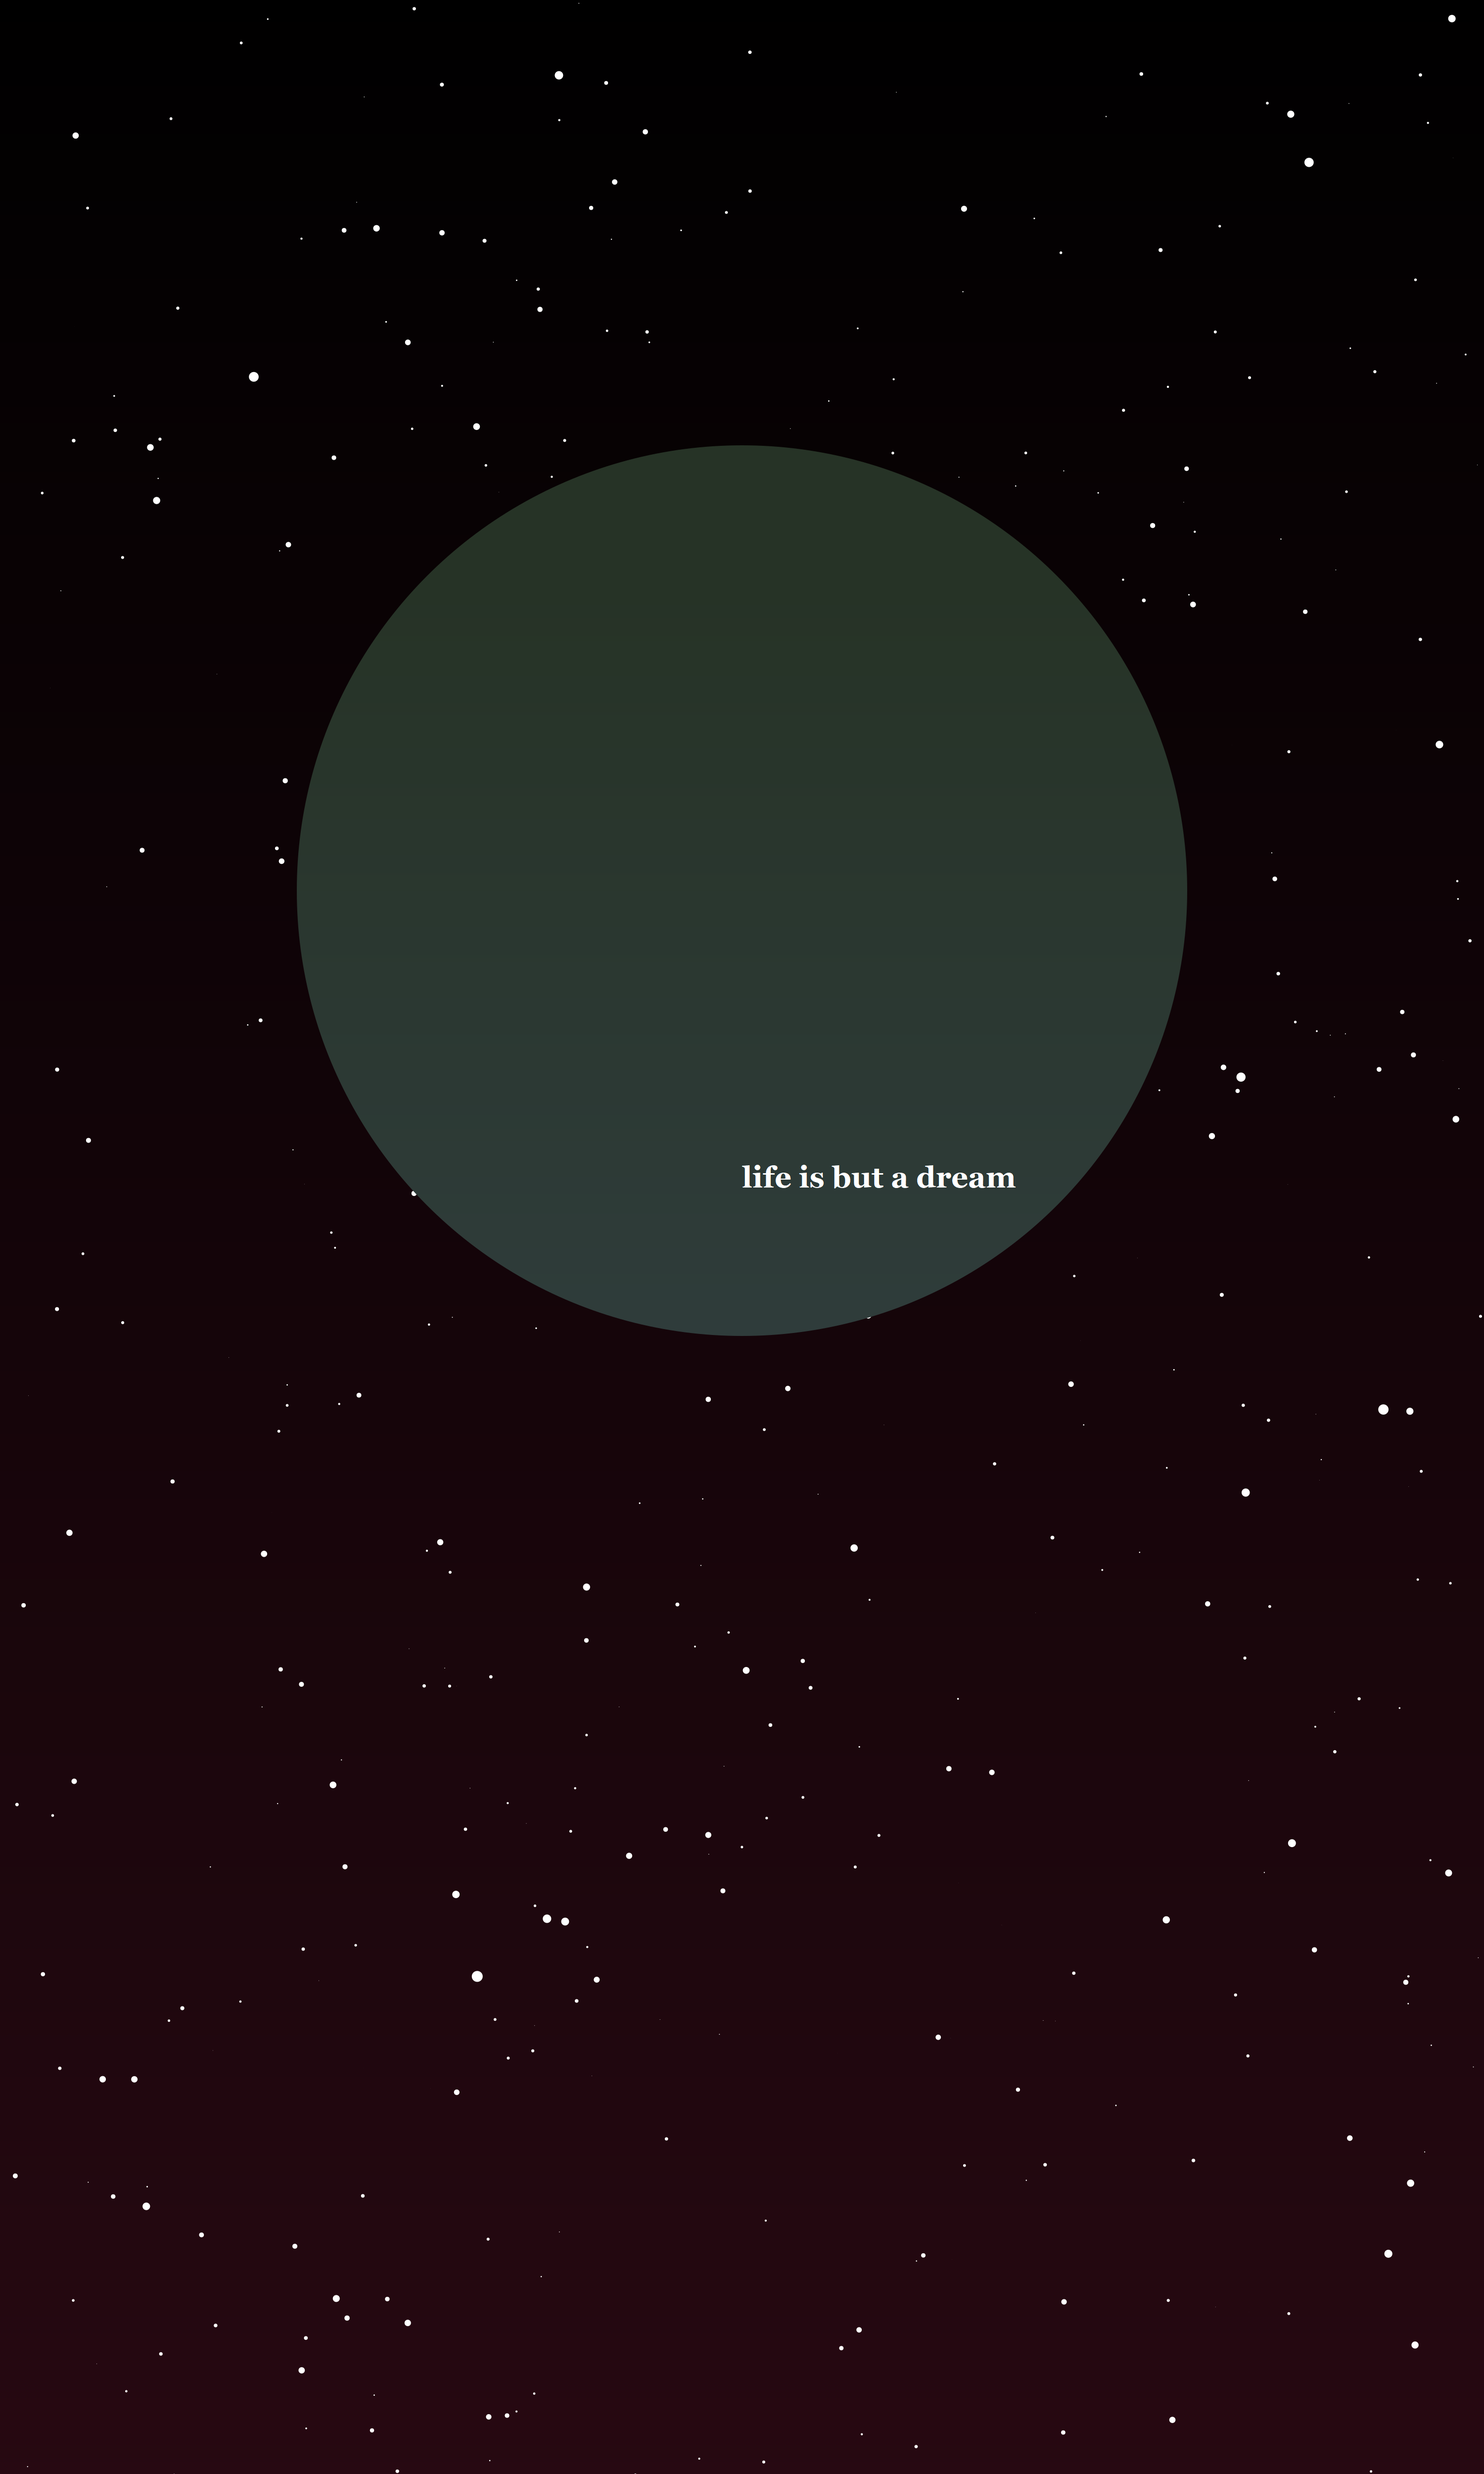
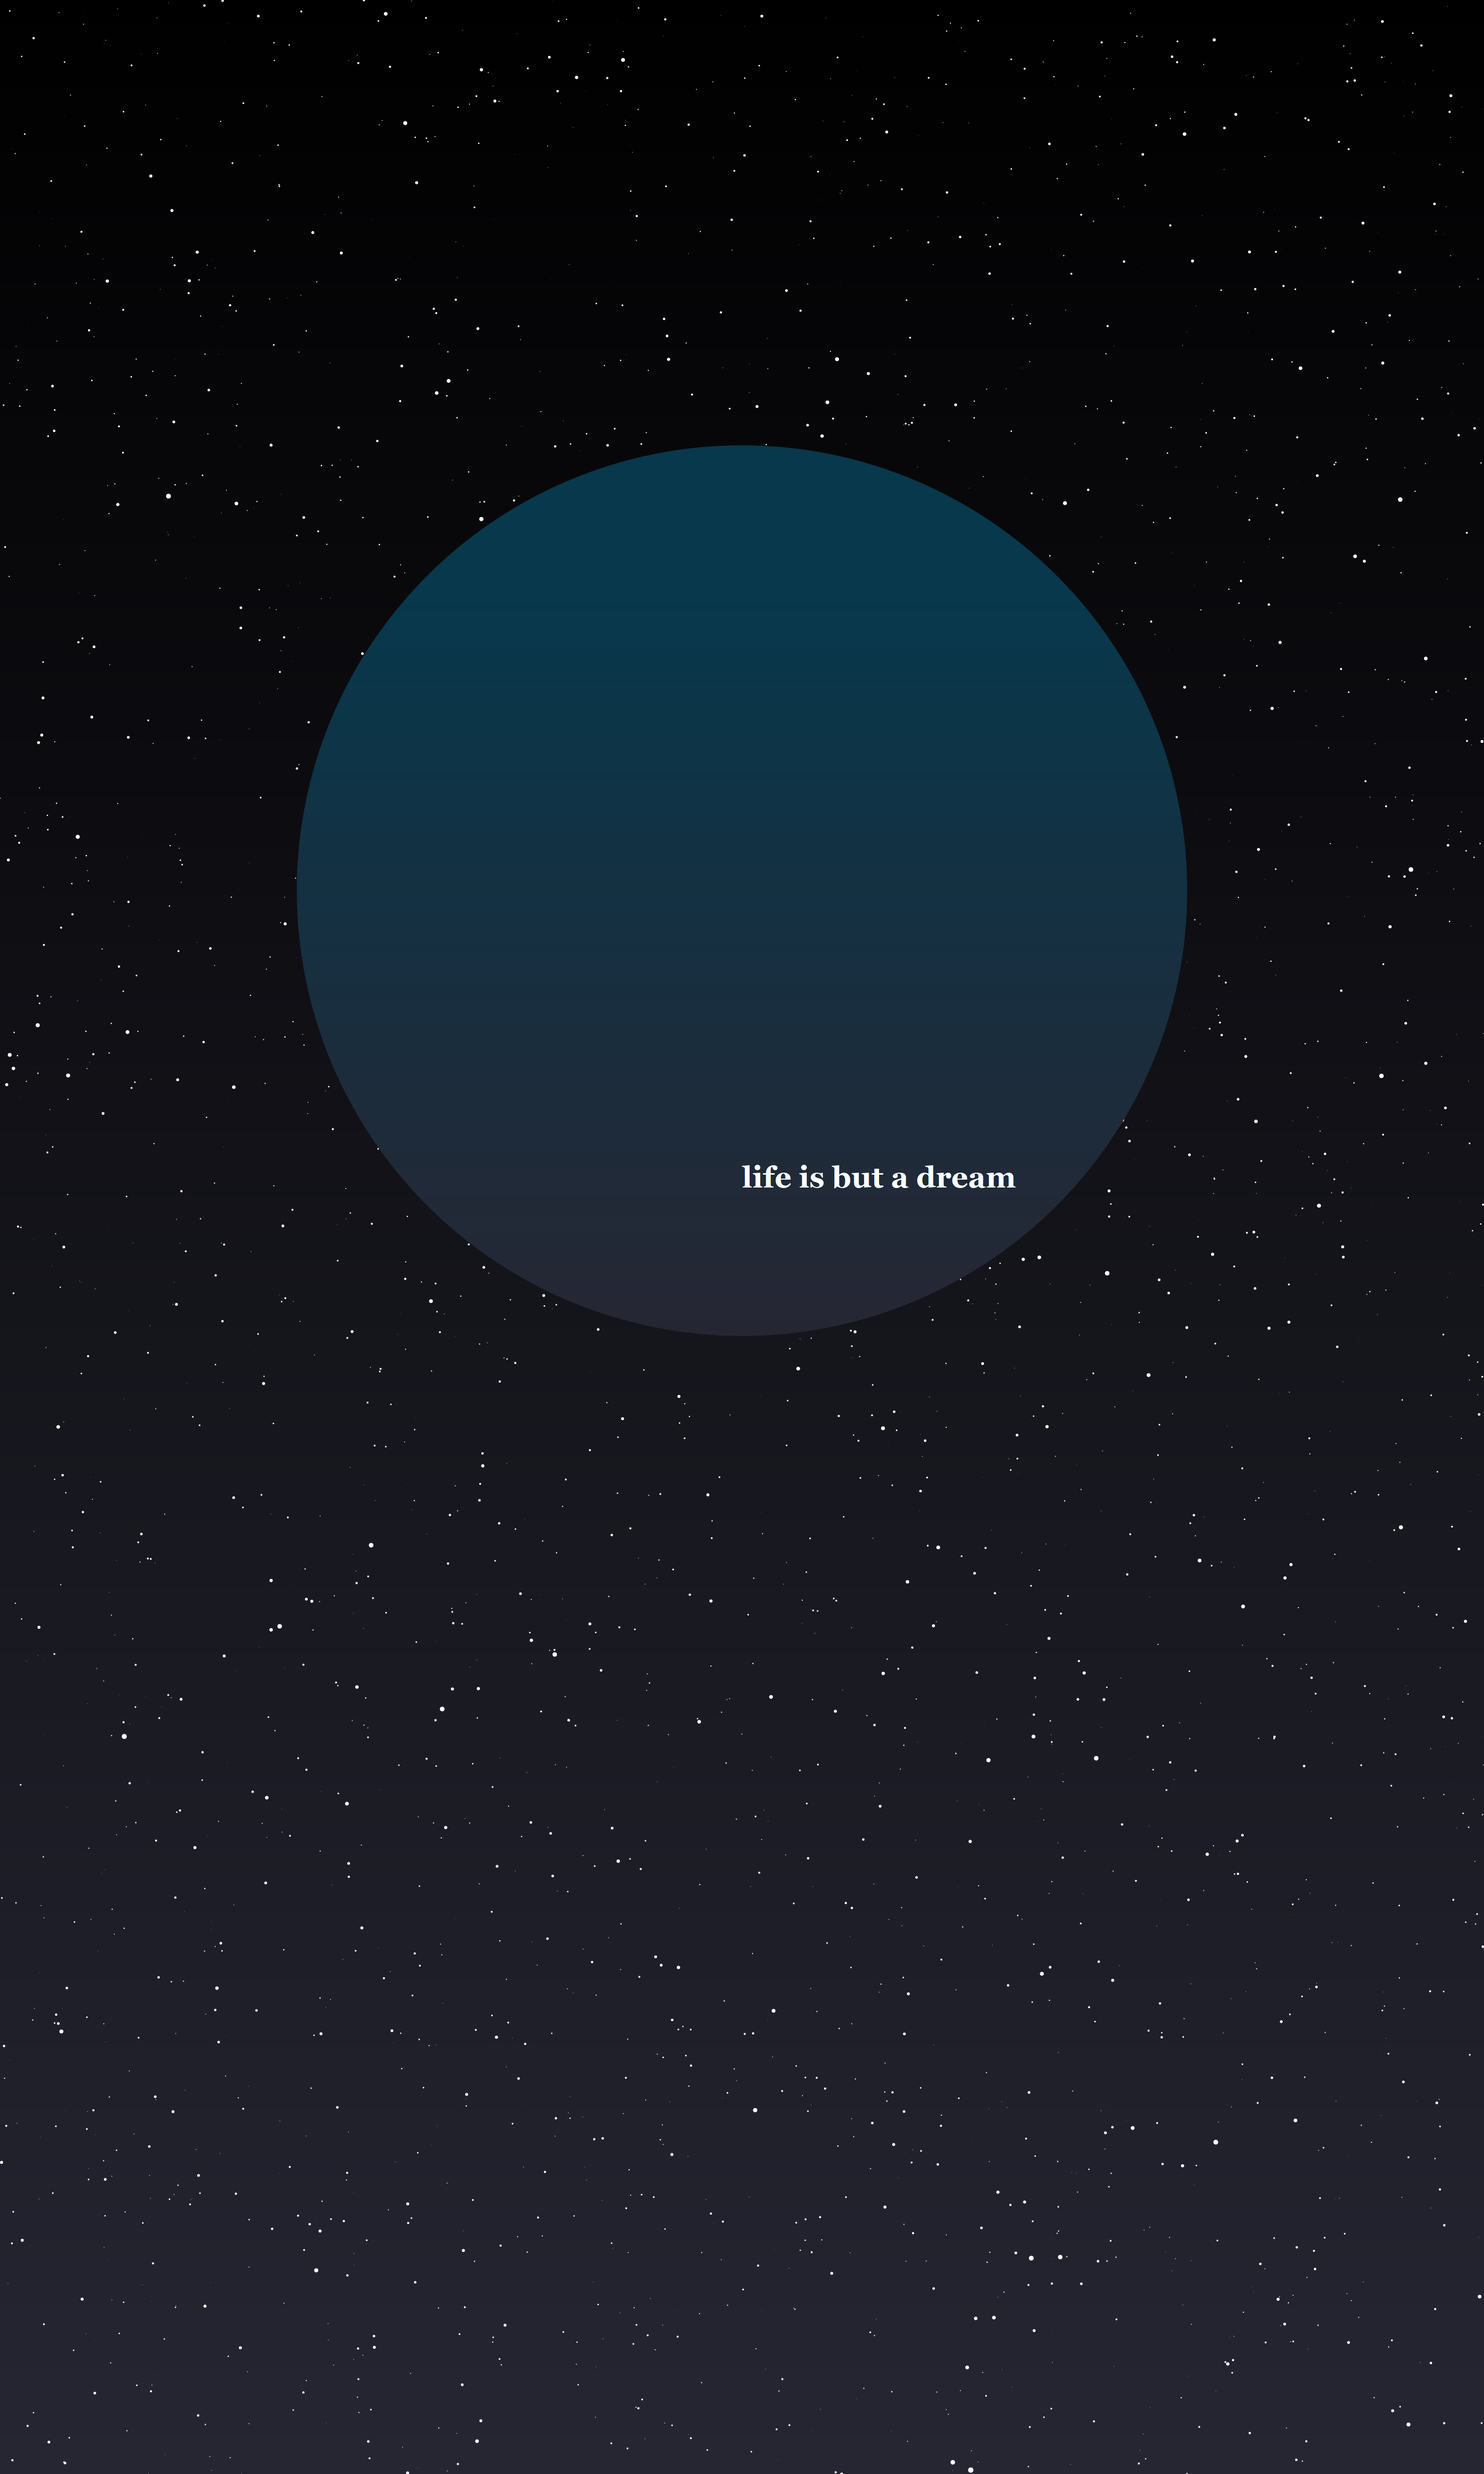
update script + new images

diff --git a/a_planet/a_planet.py b/a_planet/a_planet.py
@@ -5,7 +5,7 @@ import numpy as np
 
 # GLOBAL VARIABLES
 WIDTH, HEIGHT = 3000, 5000
-N_STARS = 800
+N_STARS = 8000
 
 
 def a_planet(output_path):
@@ -15,10 +15,7 @@ def a_planet(output_path):
 
     # BACKGROUND GRADIENT COLOR
     background = cairo.LinearGradient(0.0, 0.0, 0.0, 1.0)
-    random_r = random.uniform(0, 0.2)
-    random_g = random.uniform(0, 0.2)
-    random_b = random.uniform(0, 0.2)
-    background.add_color_stop_rgba(1, random_r, random_g, random_b, 1)
+    background.add_color_stop_rgba(1, 0.15, 0.15, 0.2, 1)
     background.add_color_stop_rgba(0, 0, 0, 0, 1)
     ctx.rectangle(0, 0, 1, 1)
     ctx.set_source(background)
@@ -30,7 +27,7 @@ def a_planet(output_path):
     for i in range(N_STARS):
         random_x = random.uniform(0, 1)
         random_y = random.uniform(0, 2)
-        random_r = random.gauss(0.0005, 0.001)
+        random_r = random.gauss(0.00005, 0.0005)
         ctx.arc(random_x, random_y, random_r, 0, math.pi * 2)
         ctx.set_source_rgb(1, 1, 1)
         ctx.fill()
@@ -46,12 +43,12 @@ def a_planet(output_path):
     random_b = random.gauss(0.3, 0.1)
     i_max = np.argmax(np.array([random_r, random_g, random_b]))
     if i_max == 0:
-        planet_gradient.add_color_stop_rgb(0.1, 0.2, 0.15, 0.15)
+        planet_gradient.add_color_stop_rgb(0.6, 0.2, 0.15, 0.15)
     elif i_max == 1:
-        planet_gradient.add_color_stop_rgb(0.1, 0.15, 0.2, 0.15)
+        planet_gradient.add_color_stop_rgb(0.6, 0.15, 0.2, 0.15)
     else:
-        planet_gradient.add_color_stop_rgb(0.1, 0.15, 0.15, 0.2)
-    planet_gradient.add_color_stop_rgb(0.6, random_r, random_g, random_b)
+        planet_gradient.add_color_stop_rgb(0.6, 0.15, 0.15, 0.2)
+    planet_gradient.add_color_stop_rgb(0.1, random_r, random_g, random_b)
     ctx.set_source(planet_gradient)
     ctx.fill()
 
